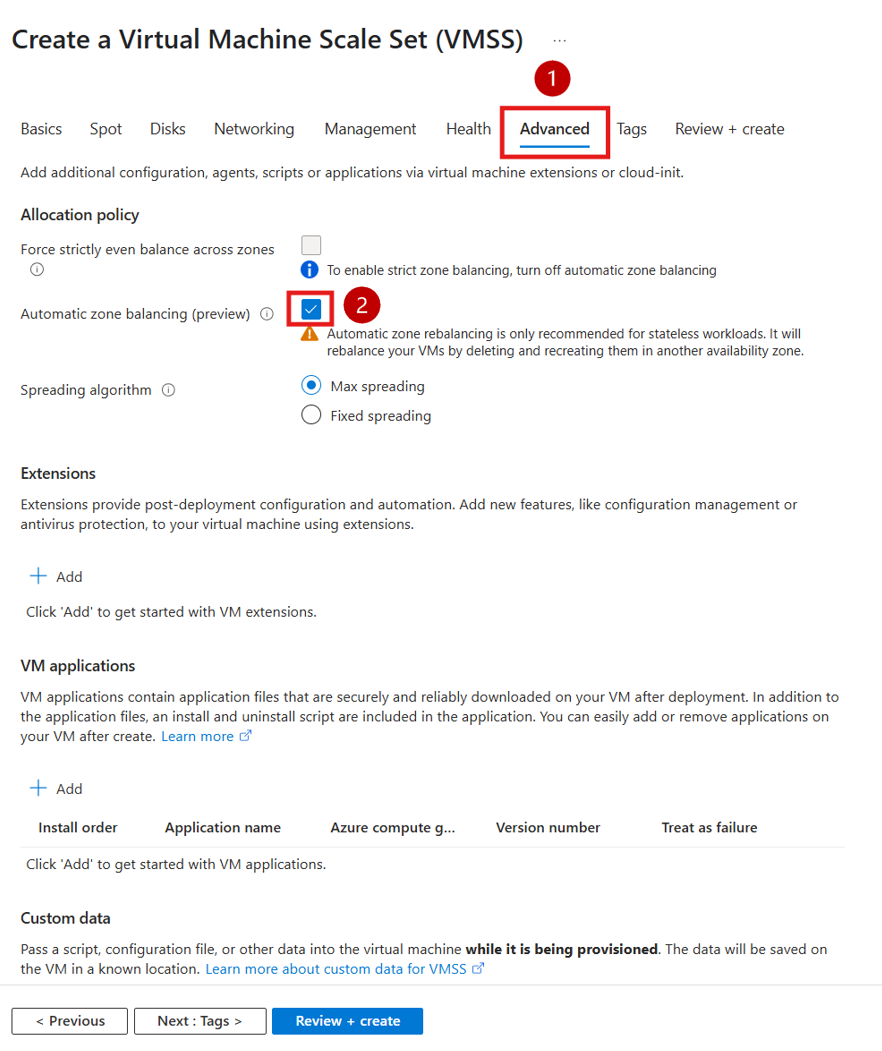
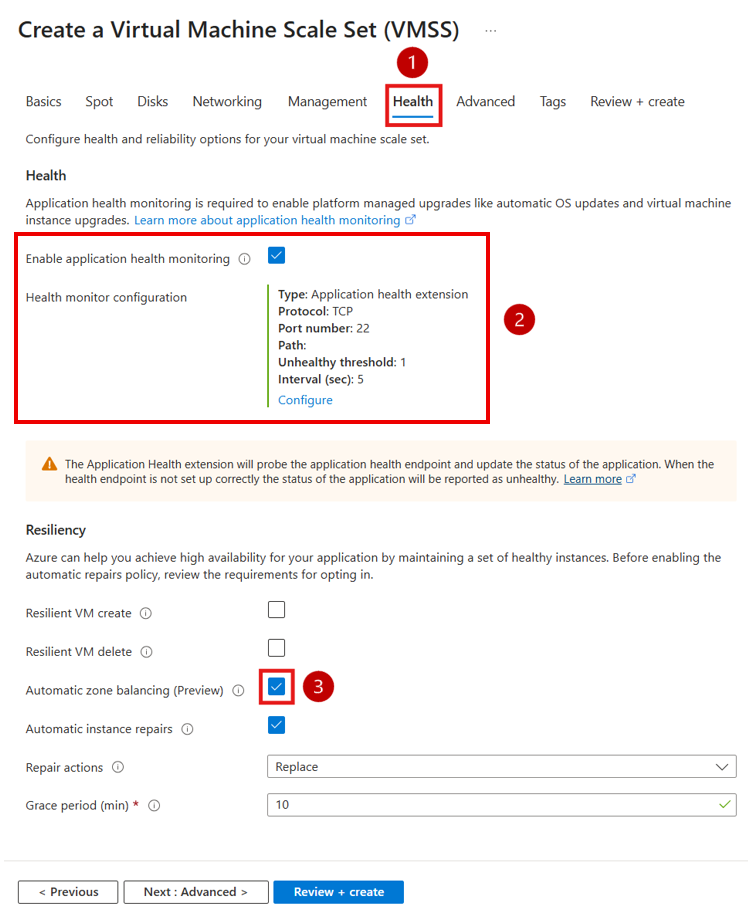
update portal screenshot, links

diff --git a/articles/virtual-machine-scale-sets/auto-zone-balance-enable.md b/articles/virtual-machine-scale-sets/auto-zone-balance-enable.md
@@ -111,8 +111,8 @@ PUT or PATCH on '/subscriptions/{subscriptionId}/resourceGroups/{resourceGroupNa
 1. Create a new Virtual Machine Scale Set.
 1. In the **Basics** tab, ensure that at least 2 zones are selected in the **Availability zone** dropdown.
 1. In the **Health** tab, enable and configure **[application health monitoring](./virtual-machine-scale-sets-health-extension.md)**.
-1. Navigate to the **Advanced** tab. Select the checkbox for **Automatic zone balancing**.
-:::image type="content" source="media/virtual-machine-scale-sets-auto-zone-balance/enable-rebalance-create-vmss.png" alt-text="A screenshot showing how to enable automatic zone balance during the Virtual Machine Scale Set create experience in the portal.":::
+1. Select the checkbox for **Automatic zone balancing**.
+:::image type="content" source="media/virtual-machine-scale-sets-auto-zone-balance/enable-rebalance-create-vmss.png" alt-text="Screenshot of the Health tab in Azure portal showing application health monitoring enabled and automatic zone balancing checkbox selected under Resiliency section.":::
 
 1. Complete additional setup for your scale set. When ready, select **Review and Create**.
 1. Select **Create**.

diff --git a/articles/virtual-machine-scale-sets/virtual-machine-scale-sets-zone-balancing.md b/articles/virtual-machine-scale-sets/virtual-machine-scale-sets-zone-balancing.md
@@ -111,3 +111,6 @@ One zone recently experienced an outage. During the outage, instances from zone 
     This matches the initial distribution of the scale set.
 
 ---
+
+## Next steps
+Learn about [automatic zone balance for Virtual Machine Scale Sets](./auto-zone-balance-overview.md).
